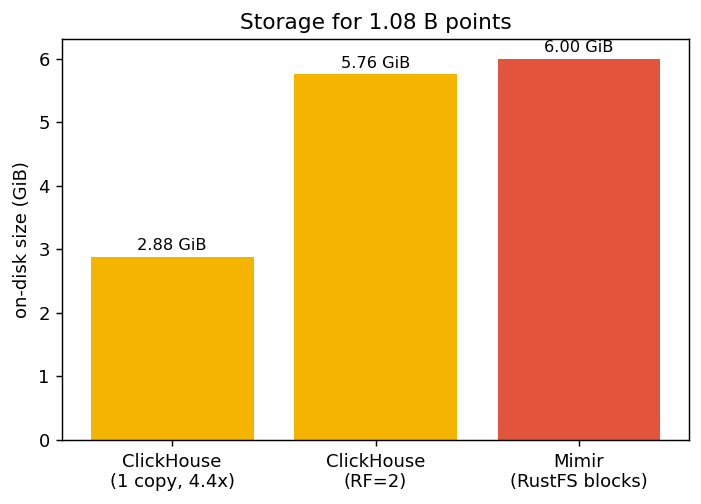
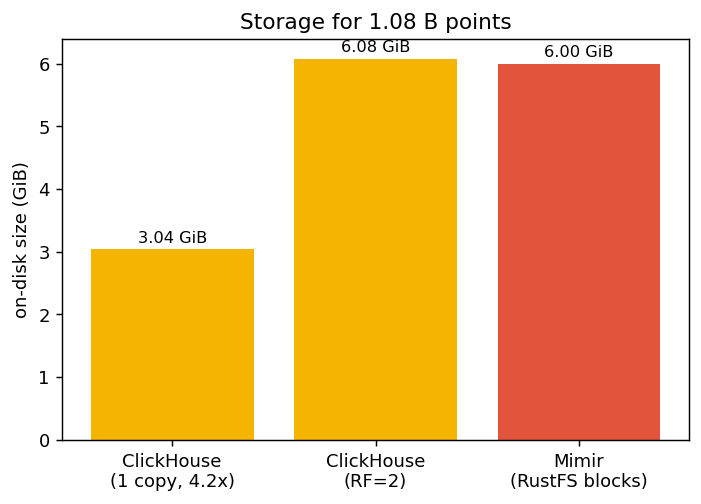
bench: address reviewer hygiene items (storage post-compaction, fresh stream)
- Storage after compaction: OPTIMIZE FINAL on the 108M table gives 3.04 GiB
  in one part vs ~2.7-2.9 GiB across 12 merged parts, so compaction did not
  shrink ClickHouse (grew ~5%); the earlier number was not an under-count.
  Updated the storage table + chart to 3.04 / 6.08 (RF=2) ~= Mimir 6.0, and
  made the Mimir-not-recompacted caveat precise. Compression 4.4x -> 4.2x.
- Continuous fresh samples vs file replay: a freshly generated now-anchored
  batch=200 stream created 1,513 parts / 263 merges / 7 active parts, which
  extrapolates (~360x) to the 540k parts seen from the file replay. The
  merge-tax numbers are not a replay artifact.

Adds both to the README Fairness re-runs section and regenerates storage.png.

Claude-Session: https://claude.ai/code/session_01Q2r3hZTuTyfpBMdWWRLmXr

diff --git a/scripts/plots.py b/scripts/plots.py
@@ -115,8 +115,8 @@ save(fig, "read_concurrency.png")
 
 # 5) Storage footprint (GiB).
 fig, ax = plt.subplots(figsize=(5.5, 4))
-bars(ax, ["ClickHouse\n(1 copy, 4.4x)", "ClickHouse\n(RF=2)", "Mimir\n(RustFS blocks)"],
-     [2.88, 5.76, 6.0], [CH, CH, MI], lambda v: f"{v:.2f} GiB")
+bars(ax, ["ClickHouse\n(1 copy, 4.2x)", "ClickHouse\n(RF=2)", "Mimir\n(RustFS blocks)"],
+     [3.04, 6.08, 6.0], [CH, CH, MI], lambda v: f"{v:.2f} GiB")
 ax.set_ylabel("on-disk size (GiB)")
 ax.set_title("Storage for 1.08 B points")
 save(fig, "storage.png")

diff --git a/README.md b/README.md
@@ -151,14 +151,19 @@ top of the ingest, so even a replicated ClickHouse finishes the volume in minute
 
 | | ClickHouse | Mimir (RustFS blocks) |
 |---|---|---|
-| On disk, one copy | 2.88 GiB (4.4x compression) | 6.0 GiB |
-| On disk, as replicated | ~5.76 GiB (RF=2) | 6.0 GiB (one compacted copy, S3-durable) |
+| On disk, one copy | 3.04 GiB (4.2x compression) | 6.0 GiB |
+| On disk, as replicated | ~6.08 GiB (RF=2) | 6.0 GiB (one compacted copy, S3-durable) |
 
-The real ClickHouse win here is **compression** (4.4x): one copy is ~2x smaller than Mimir's
+Measured after `OPTIMIZE TABLE ... FINAL` (fully compacted, 1 part). Before the forced merge the
+table sat at ~2.7 to 2.9 GiB across 12 background-merged parts, so compaction did not shrink it;
+if anything it grew slightly (larger blocks compress marginally worse for this data). The earlier
+"2.88 GiB" was not an under-count from unmerged parts.
+
+The real ClickHouse win here is **compression** (~4.2x): one copy is ~2x smaller than Mimir's
 blocks. Total footprint is a different story and depends on the durability model. ClickHouse
-stores RF=2 on cluster disks (~5.76 GiB), while Mimir keeps a single compacted copy in object
-storage and leans on S3 for durability. Counting replication, the two land close together, so
-don't read the 2.88-vs-6.0 gap as a 2x storage saving.
+stores RF=2 on cluster disks (~6.08 GiB), while Mimir keeps a single compacted copy in object
+storage and leans on S3 for durability. Counting replication, the two are essentially equal
+(~6 GiB each), so don't read the 3-vs-6 gap as a 2x storage saving.
 
 ### Resource consumption during the write (from SigNoz)
 
@@ -330,6 +335,17 @@ handicap Mimir. Each was measured. None flips the qualitative result.
   averaged ~1.8 cores/pod, under the old 3-core cap). Mimir's per-sample CPU is still ~43x
   ClickHouse's, so the efficiency gap is architectural. The manifests now ship without the Mimir
   CPU limit (`k8s/20-mimir.yaml`).
+- **Storage measured after compaction settles.** The concern was that the on-disk numbers were
+  grabbed before background merges finished, understating them. Forcing `OPTIMIZE TABLE ... FINAL`
+  on the 108M-row table took 36 s and left it at **3.04 GiB in a single part**, versus ~2.7 to 2.9
+  GiB while it was still 12 background-merged parts. So compaction did not shrink ClickHouse (it
+  grew ~5%); the earlier figure was not an under-count. Updated the storage numbers accordingly.
+- **Continuous ingestion with fresh samples, not a file replay.** The merge-tax test loads batches
+  from a pre-generated file. Re-checked with a freshly generated now-anchored stream (SCALE=2000,
+  `batch=200`): 1,513 parts created from ~1,500 batches, 263 background merges, active parts
+  settling to **7**. Extrapolated to the full-scale run (~360x) that is ~545k parts, matching the
+  540k measured from the file replay. Fresh current-timestamp samples create parts and merge
+  exactly like the replay, so the merge-tax figures are not a replay artifact.
 
 ## Caveats
 
@@ -357,7 +373,11 @@ the ratios:
   real parallelism), so the mono-node ClickHouse reads reported here are its best case on this box,
   not a handicap.
 - **RustFS is one replica on `emptyDir`.** The "durability via S3" framing is nominal here.
-- **Storage was read shortly after ingest**, so Mimir blocks may not be fully compacted.
+- **ClickHouse storage is measured after `OPTIMIZE FINAL`; Mimir's is not.** The ClickHouse
+  number is the fully-compacted single-part size. Mimir's 6.0 GiB was read shortly after ingest,
+  so its compactor might still reduce it; a post-compaction Mimir re-measure was not run (the full
+  dataset is no longer resident after a pod restart). Direction unchanged: at RF=2 the two are
+  already ~equal, and Mimir compaction would only narrow it further.
 - **Ops testing is one-sided:** ClickHouse compaction and replica rebuild are exercised; there is
   no equivalent Mimir test (ingester loss, WAL replay, store-gateway restart).
 - **Raw baseline, no engine-specific optimizations.** Neither side uses its pre-aggregation